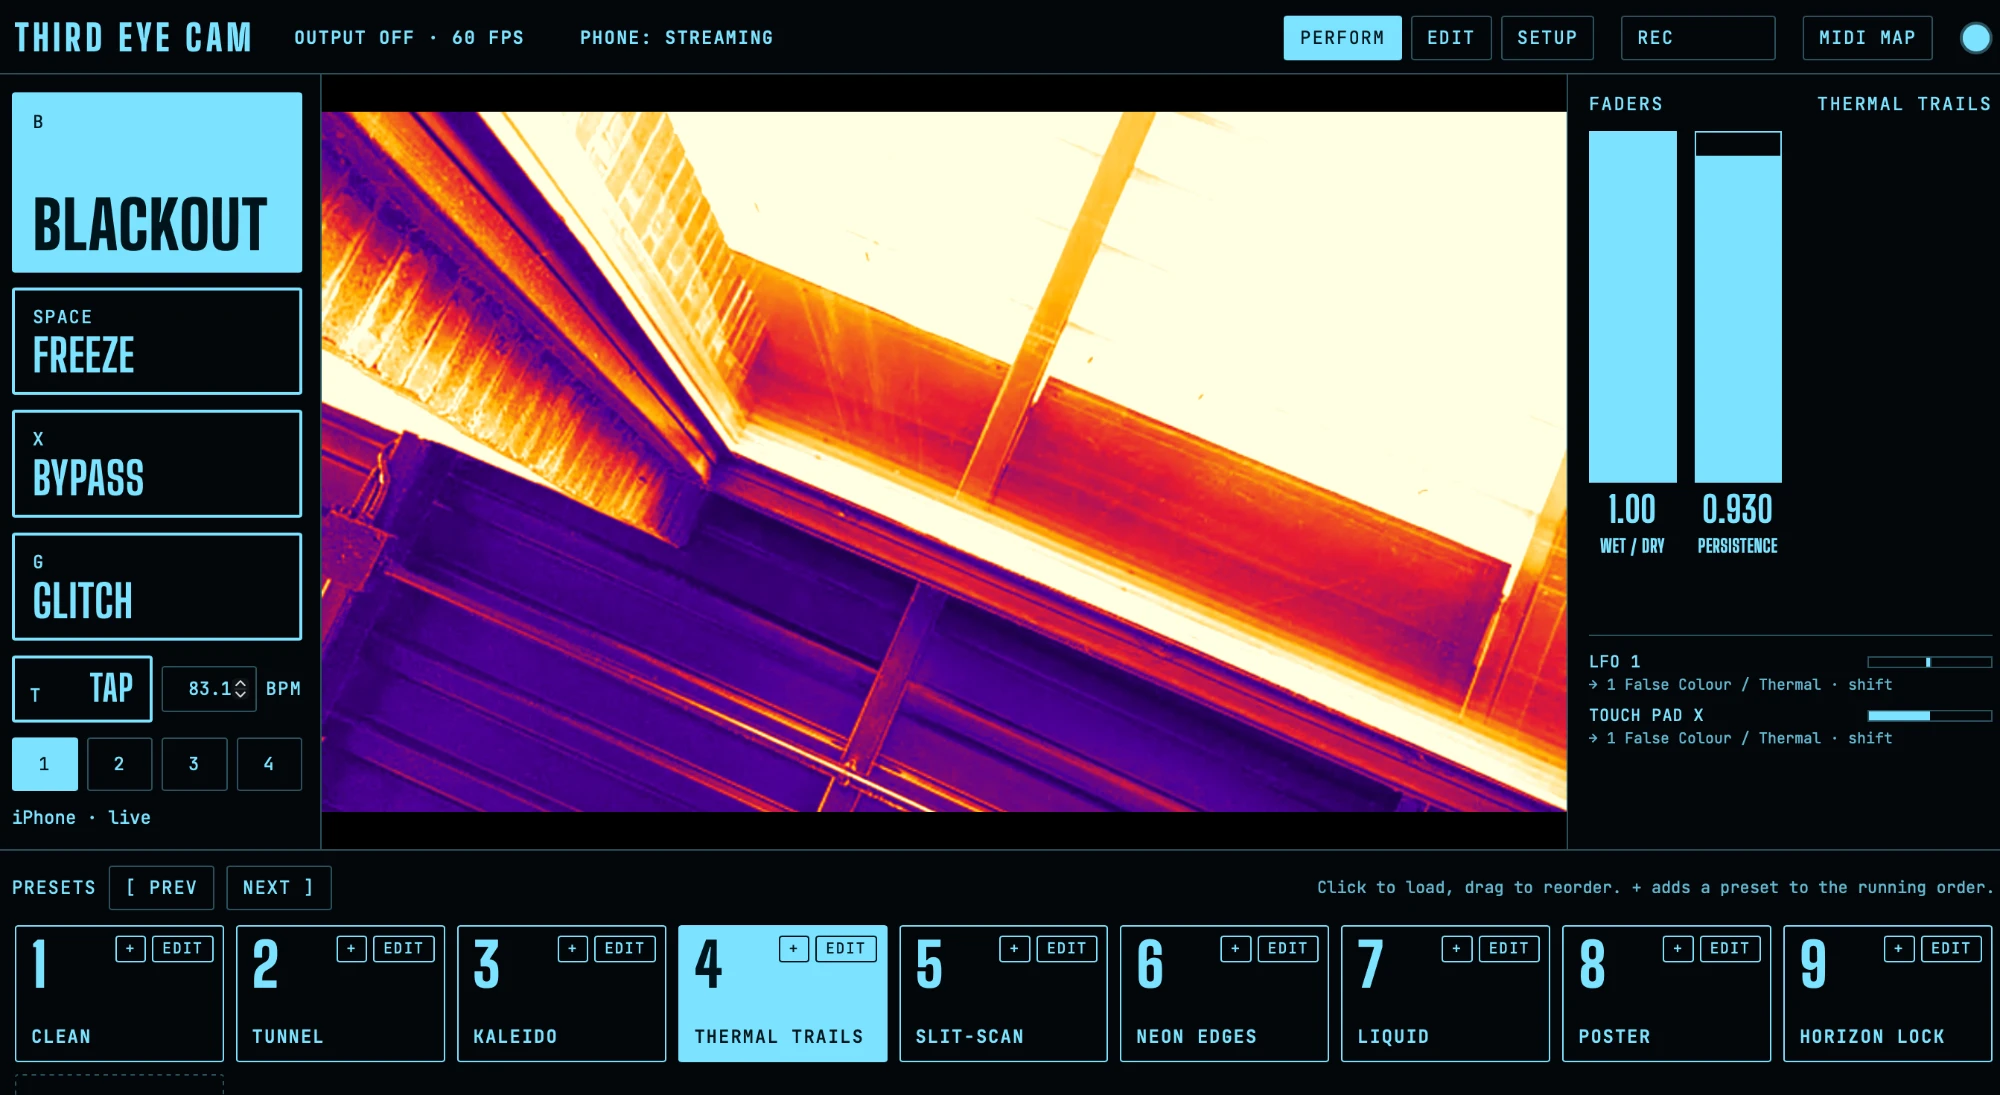
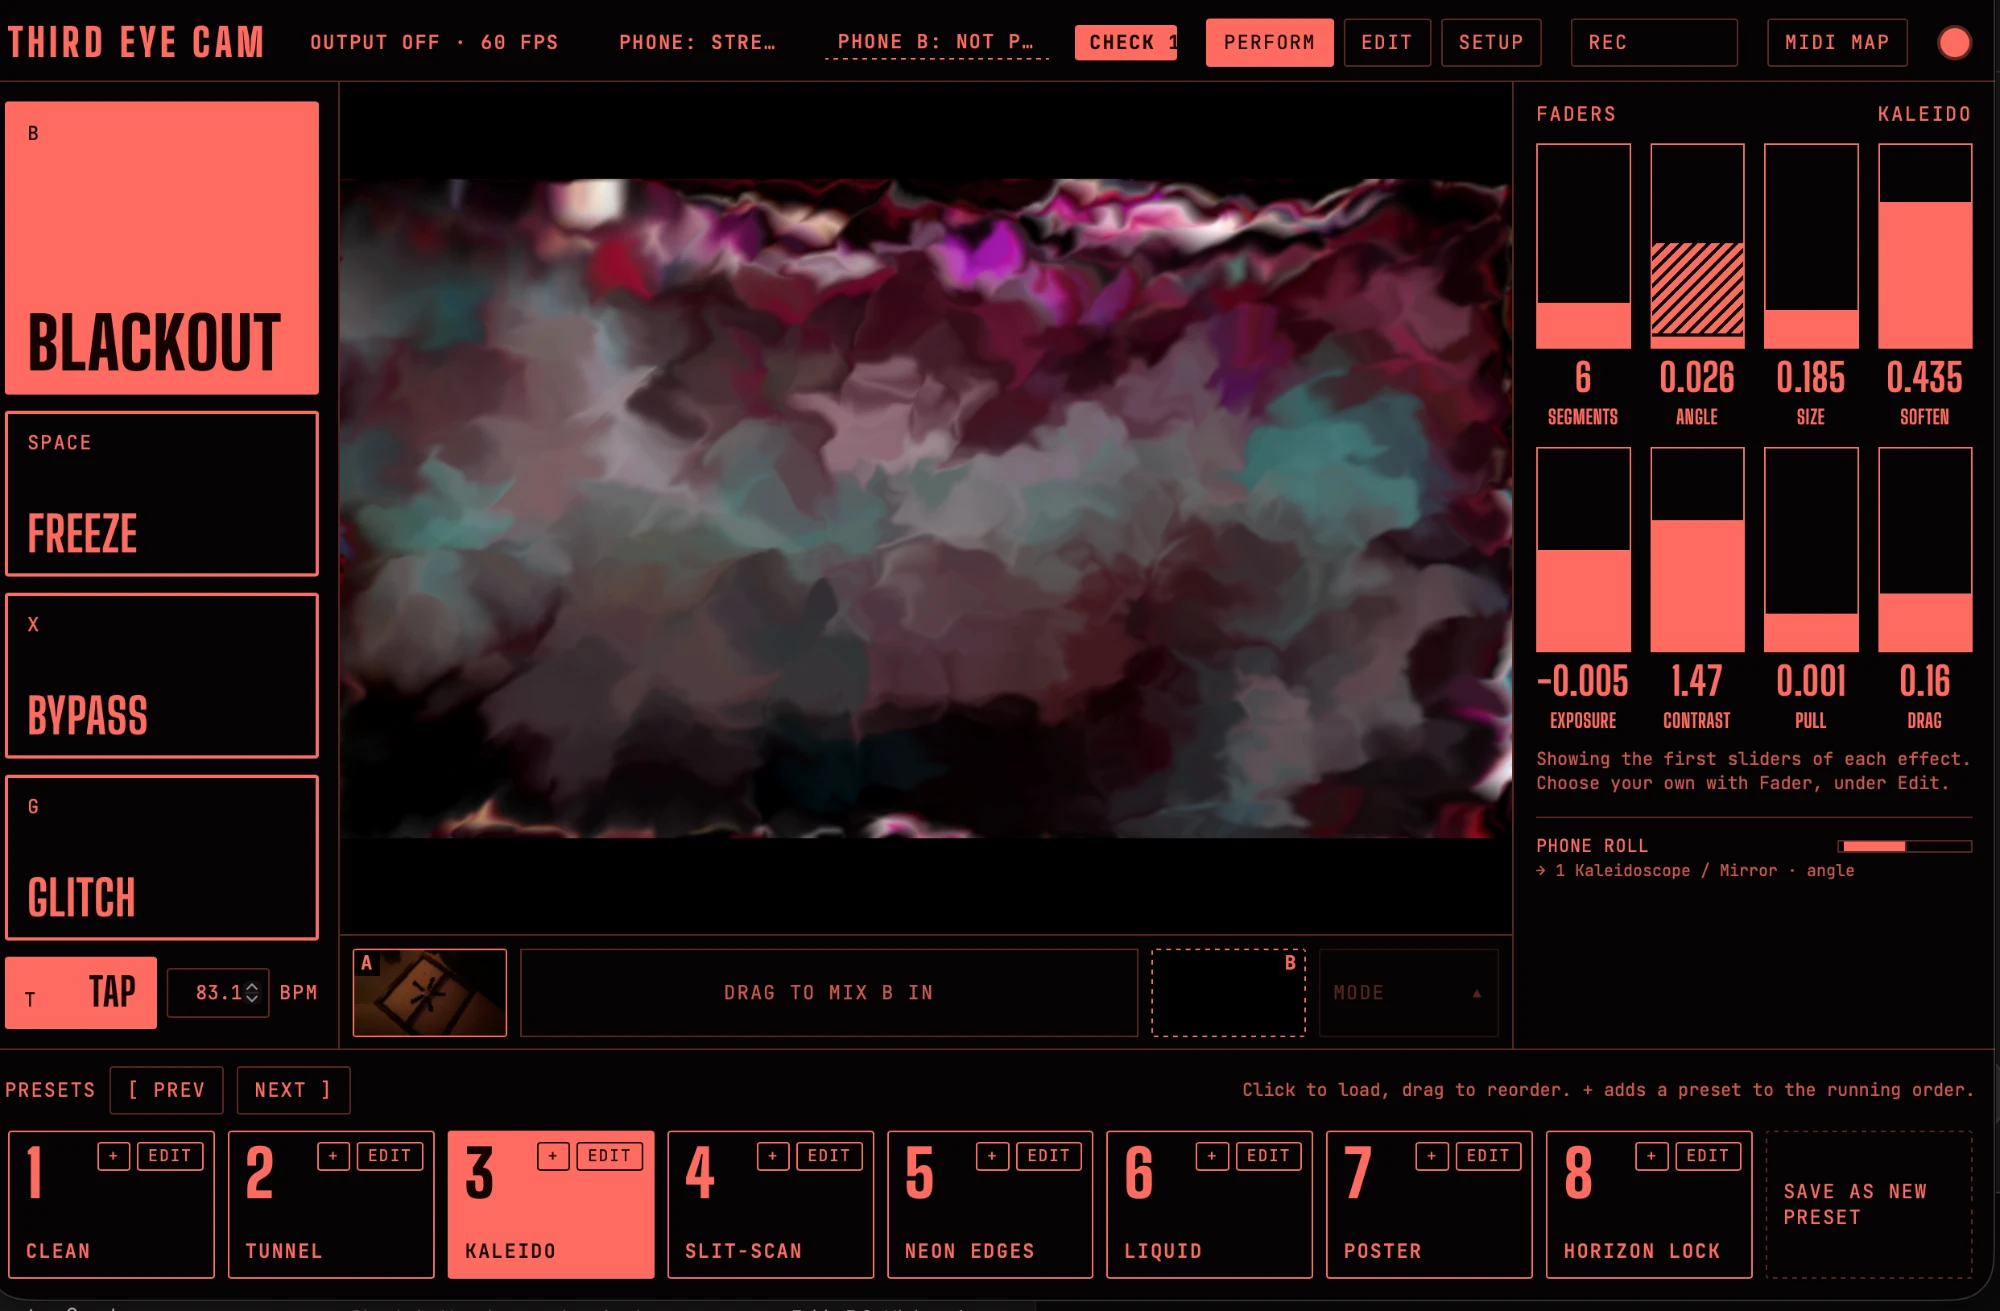
Handoff for the end of the sixth session; new board cover and session screenshot
Claude-Session: https://claude.ai/code/session_0125cWe18LXathuqhzGgFDSz

diff --git a/HANDOFF.md b/HANDOFF.md
@@ -1,19 +1,17 @@
 # Handoff
 
-## 2026-11-22 (sixth session)
+## 2026-11-23 (end of the sixth session, 22 to 23 November)
 
 **Where things stand.** Stage 2 of the effects plan is built and live on
 GitHub Pages from `main`: the motion map, the Motion and Gravity effects,
-and movement in the picture as modulation sources (Motion A, Motion B). It
-has only been seen on the moving test pattern in the sandbox, never with a
-real camera. From the session before, the owner reports that the new
-effects, drawing a modulation's range on a slider and the number as a
-bypass switch all work well on the real iPhone and Mac.
+and movement in the picture as modulation sources (Motion A, Motion B). The
+owner tried Motion and Gravity on the real iPhone and Mac on 23 November:
+both work well. The edit screen was tidied after a preset was deleted by
+mistake (see "Seen on the real devices" below); the owner has seen the
+first round of that ("placement is better"), not the last.
 
-**Next step.** On the real Mac with the iPhone: try Motion, Gravity and a
-Motion source on a slider, and say what the defaults should be (see "Stage
-2, what to try" below). Then Glitch (the owner's choice, 22 November), then
-stage 3 of the effects plan.
+**Next step.** Glitch: agree what it becomes, then build it. Then stage 3
+of the effects plan (Time and Scan).
 
 **Decisions only you can make.**
 
@@ -23,9 +21,10 @@ stage 3 of the effects plan.
 - Try a Motion source on a slider (Mod → Motion A → Overall) and say
   whether it is lively enough or too jumpy. Say whether Gravity pours
   toward the room's floor when you roll the phone.
-- Say what Glitch should become (next after stage 2). You asked for a
-  chosen, sudden move of one or more sliders of the effects already in the
-  preset.
+- Say what Glitch should become (it is next). You asked for a chosen,
+  sudden move of one or more sliders of the effects already in the preset.
+- Look at the edit screen as it now is (no "← Perform", no "In:" block,
+  the short Revert, Fade in in a narrow window) and say if anything is off.
 - Say whether the bars on the Parameters tab are too narrow for drawing a
   modulation's range (about 100 px in a 1440-wide window). If so: shorten
   "Fader" to a mark, or widen that column.
@@ -46,8 +45,6 @@ stage 3 of the effects plan.
 - Recording: your Mac remembers WebM from before; choose MP4 once in Setup →
   Recordings. The first time a recording saves itself, allow Chrome to
   download several files.
-- Board cover: it is your screenshot of 16 November, two sessions old. Send
-  a new one when you want it replaced.
 - Say whether the phone's Quality menu should be restyled.
 - Tick **hold** again on any trigger that had it: settings saved before 13
   November are no longer read.
@@ -73,7 +70,8 @@ tolerate a slow mask (soften, delay) instead of being tuned to one figure.
 Glitch comes after stage 2. No mock-ups for Motion and Gravity (their
 controls are the generated sliders).
 
-**Stage 2, what to try** (none of it seen with a real camera).
+**Stage 2, what to try** (Motion and Gravity have been seen working; the
+notes stay for tuning).
 
 - Motion: add it alone, wave a hand. A still room should be black; if it
   sparkles, sensitivity is too high for the camera's grain (the floor is
@@ -126,8 +124,10 @@ control that blurs or sharpens inside the loop; Kaleidoscope and Edge Glow
 simplified (seven controls each). Not recommended: object detection.
 Cross-feedback between A and B: later, if at all.
 
-**Built in the sixth session, not yet tried on real hardware.** All of
-stage 2: see "Stage 2, what to try" above.
+**Built in the sixth session, not yet tried on real hardware.** The
+Motion sources on a slider; which way Gravity pours when the phone is
+rolled; the last round of edit screen changes; Bring back deleted factory
+presets.
 
 **Built in the fifth session, not yet tried on real hardware.**
 
